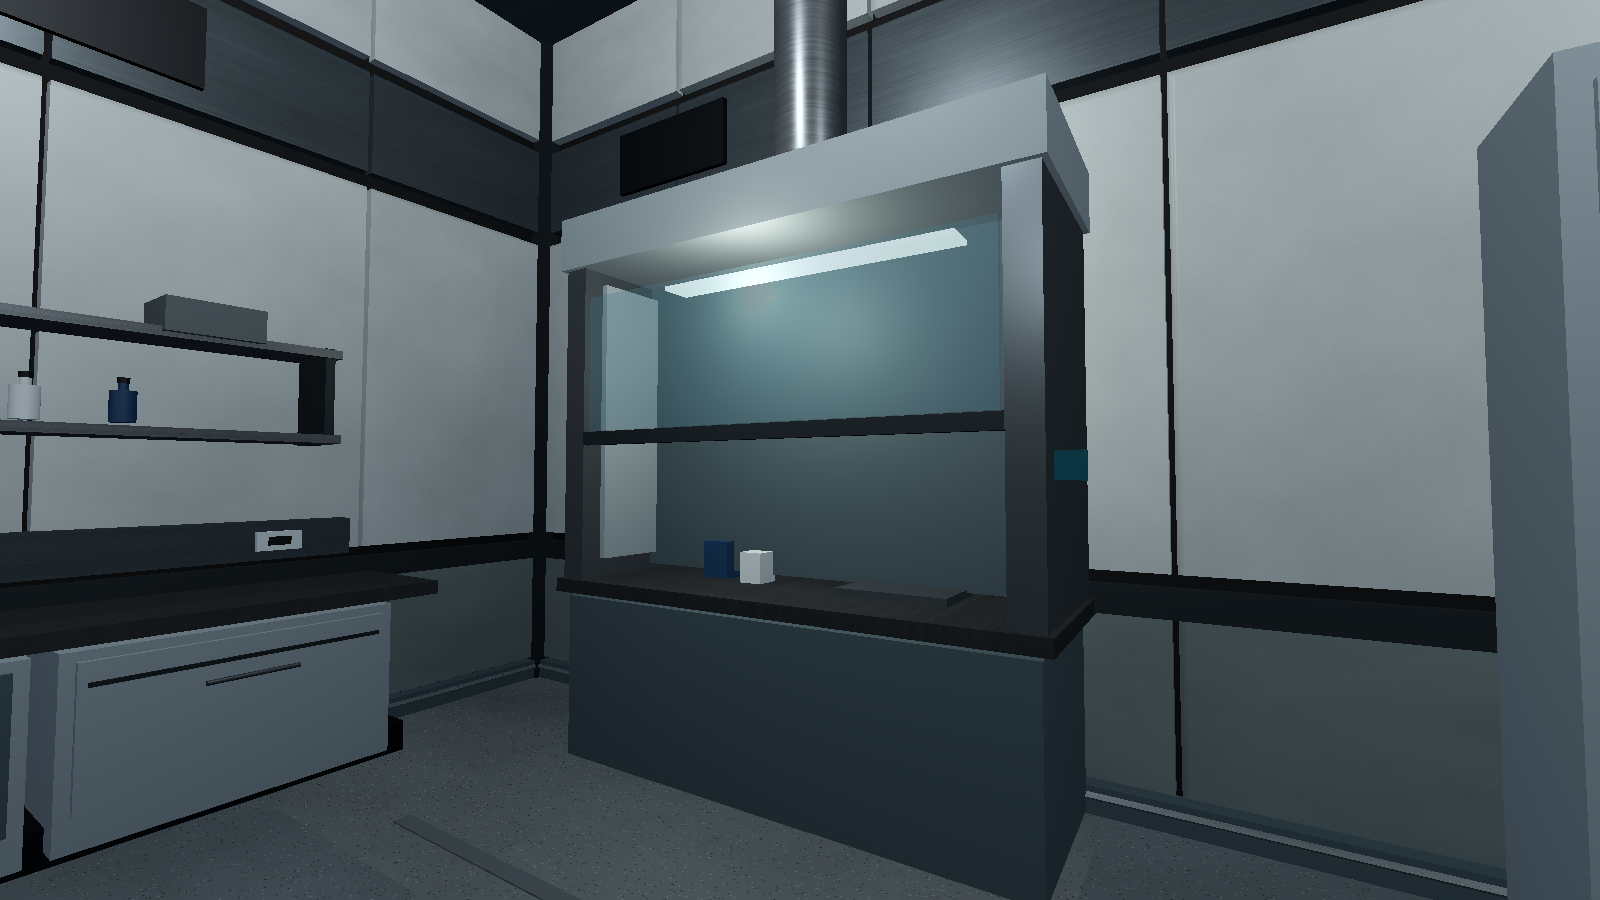
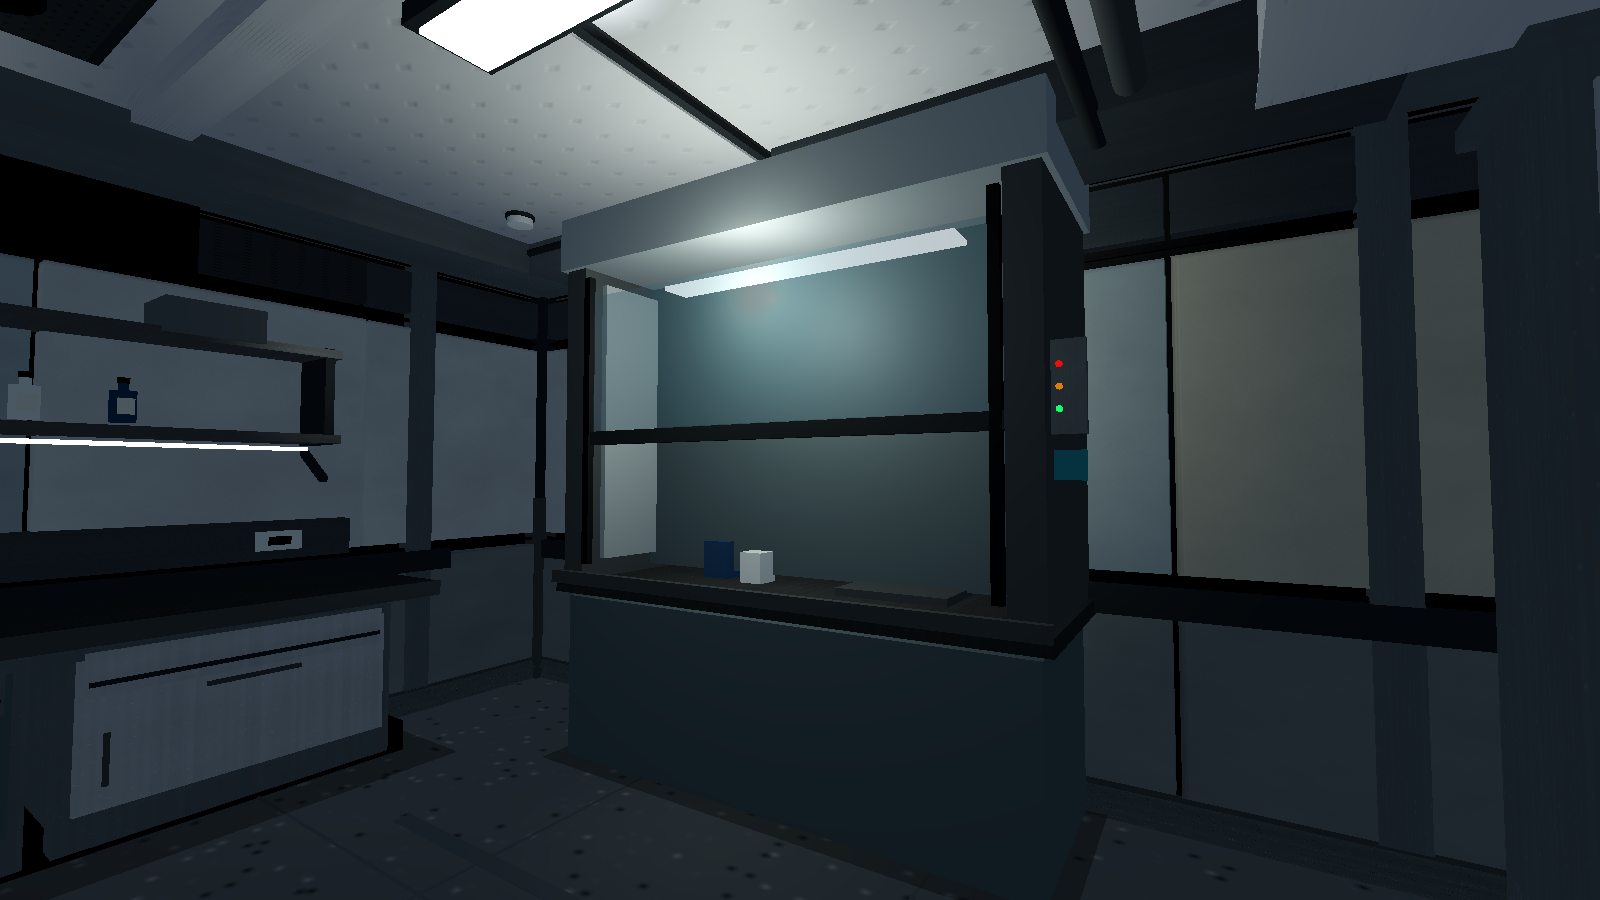
Documenta resultados finais do refinamento da sala-piloto
- REFINAMENTO_VISUAL_SALA_PILOTO: resultados, métricas antes/depois,
  defeitos corrigidos (incl. causa raiz da placa da janela no soffit),
  entrega com SHA-256 e avaliação honesta por categoria.
- SALA_PILOTO_VISUAL: nova seção 9 com o resumo da 13B.
- Capturas finais do CI (15) em docs/screenshots/sala-piloto/.

diff --git a/docs/REFINAMENTO_VISUAL_SALA_PILOTO.md b/docs/REFINAMENTO_VISUAL_SALA_PILOTO.md
@@ -189,9 +189,93 @@ Baseline medida antes da alteração:
 
 ## 8. Resultados
 
-_A preencher após a implementação e o CI._
+Implementação em três commits sobre o checkpoint `v0.13.0-pre-refinamento`:
+
+- `dd8cdcd` — refinamento principal (arquitetura em camadas, PBR procedural,
+  forro técnico a 3,20 m, porta/janela detalhadas, iluminação por
+  luminárias);
+- `8fdf838` — passada corretiva após inspeção das capturas do CI (a primeira
+  versão refinada estava escura demais);
+- `b4b73ff` — correção da placa da janela e métricas na vista geral.
+
+Cena final (`maps/pilot/pilot_research_room.tscn`, gerada por
+`tools/arch/build_pilot_room.py`):
+
+| Item | v0.13.0 | v0.13.1 |
+| --- | ---: | ---: |
+| Nós | 702 | 929 |
+| `MeshInstance3D` | 631 | 855 |
+| `CollisionShape3D` | 23 | 23 |
+| Luzes | 9 | 12 (8 spots + 4 omnis; 2 spots com sombra) |
+| `Label3D` | 8 | 8 |
+| Materiais `.tres` | 34 | 43 |
+| Texturas PNG | 20 | 28 (2.687.815 bytes) |
+| Malhas reutilizáveis | 288 | 446 |
+| Formas de colisão reutilizáveis | — | 14 |
+| Duplicados entre irmãos | 0 | 0 |
+
+Validação (run `39704865799`, commit
+`b4b73ff04ab82530c3b55fb551784de719e6ad40`, verde no Linux e no Windows):
+
+- sala-piloto: **62/62 verificações** no Linux e **62/62** no Windows;
+- Windows: fumaça **405**, fluxo de interface **95**, controlador **598**,
+  modular **364**, primeiro andar **347** — todas aprovadas;
+- métricas do renderizador (Linux, Xvfb/llvmpipe, 1600 × 900,
+  `gl_compatibility`, vista geral `01_sala_inteira`): **822 draw calls**,
+  **31.544 primitivas**, **70.181.795 bytes** de texturas e **77.248.215
+  bytes** de memória de vídeo. A v0.13.0 media 437 draw calls e 19.240
+  primitivas em enquadramento amplo comparável: a densidade de detalhes
+  quase dobrou as draw calls, que hoje são o custo dominante (as primitivas
+  continuam baixas). É aceitável para uma sala isolada em GPU intermediária,
+  mas **não deve ser replicado para o prédio inteiro sem instanciamento,
+  mesclagem de geometria estática ou LOD**;
+- capturas: **15 imagens** (12 obrigatórias + 3 closes de sinalização) em
+  `docs/screenshots/sala-piloto/`.
+
+Defeitos encontrados na inspeção das capturas e corrigidos antes da entrega:
+
+- iluminação geral escura demais (ambiente 0,34→0,55; spots principais
+  2,35→3,6 com ângulo 72° e atenuação 0,85; difusores 1,55→2,3; sombras de
+  spots reduzidas de 4 para 2; luz vermelha de emergência 0,35→0,16);
+- guarda-corpo da parede sul atravessando a folha da porta — segmentado fora
+  do vão (−2,95…−1,45);
+- juntas do piso pretas e largas — 12 mm em cinza médio;
+- vigas do forro pretas e pesadas — perfil de 0,14 m em `ceiling_panel`;
+  soffits em `painted_metal_gray`;
+- fitas luminosas sob prateleiras largas demais — 0,28/0,24 m → 0,12 m;
+- rótulo "OBSERVAÇÃO" cortado ao meio: a causa raiz **não era orientação**
+  (o teste de base — determinante +1 e eixo Y para cima — sempre esteve
+  verde, e os rótulos de EPI e da porta sempre renderizaram corretos). A
+  placa (topo em 3,00 m) ficava com a metade superior dentro do soffit do
+  forro (2,88–3,08 m), que a cortava exatamente na linha do texto. Placa e
+  rótulo desceram para 2,76 m (placa de 0,18 m, entre a verga da janela,
+  topo 2,67 m, e o soffit). Verificação visual nos closes
+  `13_sinalizacao_janela.png`, `14_sinalizacao_epi.png` e
+  `15_sinalizacao_porta.png`.
+
+Entrega:
+
+- tag/release: `v0.13.1-sala-piloto-refinamento` (alvo `b4b73ff`);
+- ZIP: `BlackSight-Sala-Piloto-Refinada-Windows-x86_64.zip`,
+  **42.567.970 bytes**;
[1 lines of base64/hex data omitted]
+  (calculado pelo job do Windows durante o empacotamento; o ZIP também
+  contém `SHA256SUMS.txt`);
+- avaliação manual do usuário: **pendente** — esta etapa para aqui.
 
 ## 9. Avaliação honesta
 
-_A preencher após inspeção das capturas finais. Nenhuma nota deve ser
-declarada antes da comparação com as capturas da v0.13.0._
+Notas internas 0–10 após inspeção das 15 capturas finais comparadas com a
+v0.13.0. São uma leitura técnica da equipe, **não aprovação do usuário** —
+a direção visual definitiva depende da avaliação manual.
+
+| Categoria | Nota | Justificativa curta |
+| --- | ---: | --- |
+| Arquitetura e legibilidade construtiva | 7 | Paredes em camadas, soffits, forro técnico e rodapé cove leem como laboratório; encontros ainda são caixas primitivas. |
+| Materiais e PBR | 6 | PBR procedural completo (albedo/roughness/metallic/normal/AO local) e coerente; sem texturas fotográficas, o microdetalhe em close extremo é limitado. |
+| Iluminação | 6 | Hierarquia nasce das luminárias, com contraste e sombras seletivas; sem GI/bake, alguns cantos (sala de observação) seguem escuros e o llvmpipe do CI achata o resultado. |
+| Mobiliário e equipamentos | 6 | Silhuetas, frentes, trilhos e controles plausíveis; interiores de capela/cabine e instrumentos seguem simplificados. |
+| Detalhes funcionais e sinalização | 7 | Sinalização em pt-BR consistente e legível nos closes; detalhes têm função (tomadas, sensores, grelhas, extintor, inspeções) sem clutter aleatório. |
+| Escala e primeira pessoa | 7 | Teto 3,20 m, bancadas e porta em escala; circulação e aproximações validadas por colisões e raios no teste do piloto. |
+| Performance | 5 | 822 draw calls numa única sala é alto; exige estratégia de instanciamento/mesclagem antes de virar padrão do prédio. Texturas e primitivas estão sob controle. |
+| **Conjunto como referência visual** | **6,5** | Um laboratório mantido, técnico e crível em primeira pessoa — claramente acima da v0.13.0 —, ainda longe de asset de produção AAA. Bom o bastante para avaliar direção; não é a direção definitiva declarada. |

diff --git a/docs/SALA_PILOTO_VISUAL.md b/docs/SALA_PILOTO_VISUAL.md
@@ -314,7 +314,44 @@ primeira leva de capturas também mostrou rótulos laterais espelhados, piso
 em blocos, capela vazia e lava-olhos desconectado; esses defeitos foram
 corrigidos antes da entrega.
 
-## 9. Limites honestos
+## 9. Atualização — Refinamento 13B (v0.13.1)
+
+A sala acima (v0.13.0) foi refinada na Etapa 13B, preservando planta,
+sistemas e a própria cena como checkpoint (`v0.13.0-pre-refinamento`).
+Resumo do que mudou e dos resultados; o detalhamento completo (pesquisa,
+classificação A/B/C/D, defeitos corrigidos e avaliação por categoria) está
+em [`REFINAMENTO_VISUAL_SALA_PILOTO.md`](REFINAMENTO_VISUAL_SALA_PILOTO.md).
+
+- Arquitetura em camadas (painéis, faixa de serviços, rodapé cove, soffits),
+  forro técnico modular a 3,20 m, piso contínuo com juntas finas, porta e
+  janela de observação com profundidade real.
+- PBR procedural ampliado (43 materiais, 28 texturas), mobiliário e
+  equipamentos com frentes/controles, detalhes funcionais e sinalização
+  em pt-BR verificada em closes.
+- Iluminação redesenhada a partir das luminárias (6 spots principais, 2 com
+  sombra; tarefas e apoios locais; emergência discreta) — incluindo uma
+  passada corretiva após a inspeção das capturas mostrar a primeira versão
+  refinada escura demais, e a correção da placa "OBSERVAÇÃO", que estava
+  parcialmente dentro do soffit do forro.
+- Cena final: 929 nós, 855 `MeshInstance3D`, 23 `CollisionShape3D`,
+  12 luzes, 446 malhas reutilizáveis, zero duplicados entre irmãos.
+- CI verde (run `39704865799`, commit `b4b73ff`): sala-piloto **62/62** no
+  Linux e no Windows; demais suítes aprovadas (Windows: fumaça 405,
+  interface 95, controlador 598, modular 364, primeiro andar 347).
+- Métricas (Linux/llvmpipe, vista geral): 822 draw calls, 31.544
+  primitivas, 70.181.795 bytes de texturas, 77.248.215 bytes de vídeo.
+- Release `v0.13.1-sala-piloto-refinamento`:
+  `BlackSight-Sala-Piloto-Refinada-Windows-x86_64.zip`, 42.567.970 bytes,
[1 lines of base64/hex data omitted]
+- Capturas atualizadas nesta pasta (15): as 12 vistas obrigatórias e os
+  closes `13_sinalizacao_janela.png`, `14_sinalizacao_epi.png` e
+  `15_sinalizacao_porta.png`. As capturas da v0.13.0 permanecem na release
+  `v0.13.0-sala-piloto-visual` e no histórico Git.
+- Avaliação manual do usuário: **pendente**. A etapa para aqui; nenhuma
+  direção visual foi declarada definitiva e nada foi aplicado aos módulos
+  ou às demais salas.
+
+## 10. Limites honestos
 
 - A geometria é construída com primitivas do Godot e texturas procedurais;
   isso testa direção, escala, materiais e densidade, mas não é um modelo
